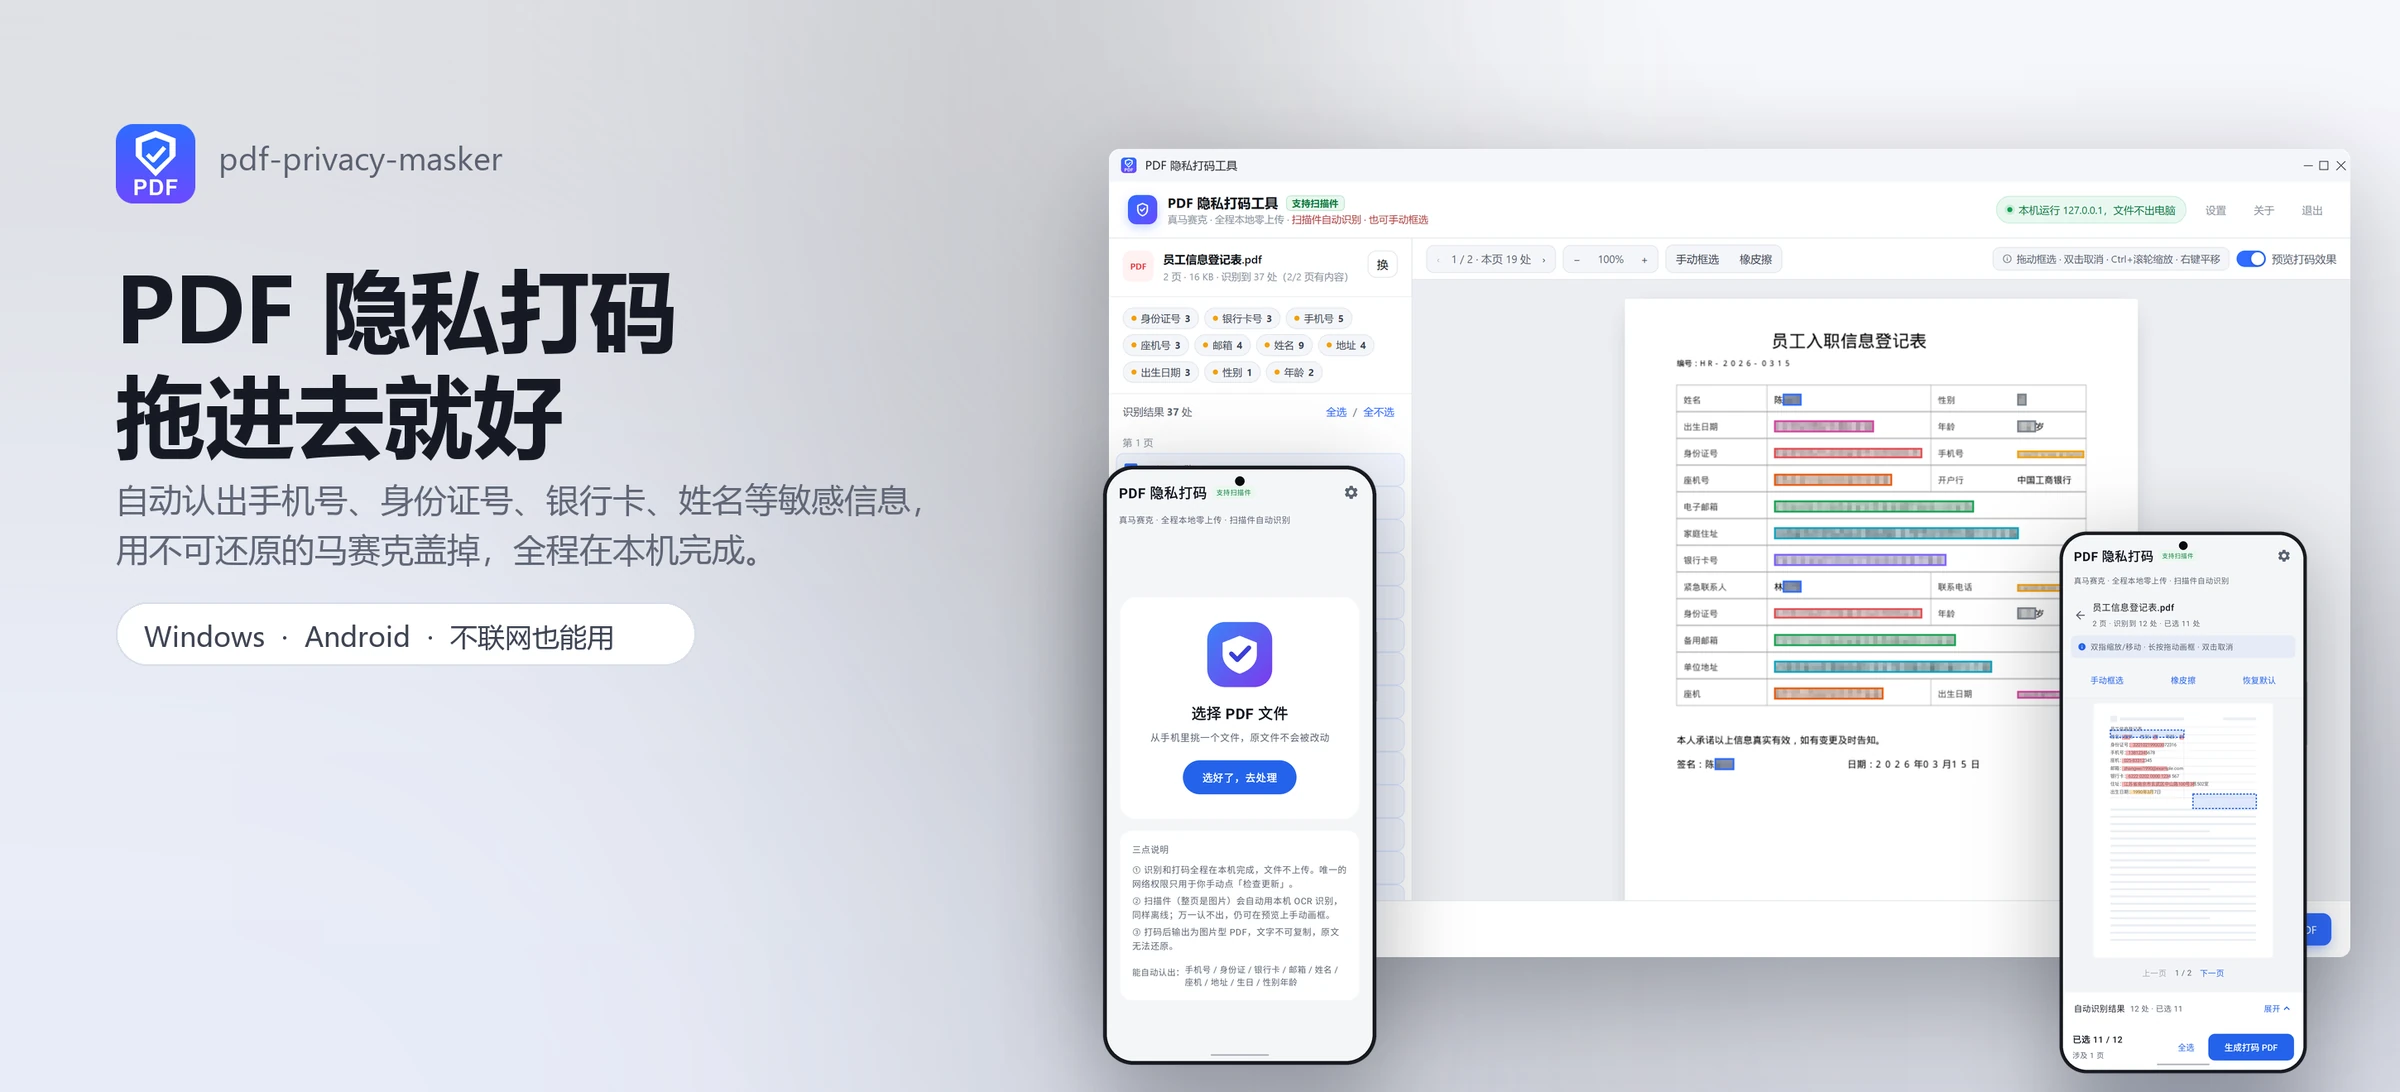
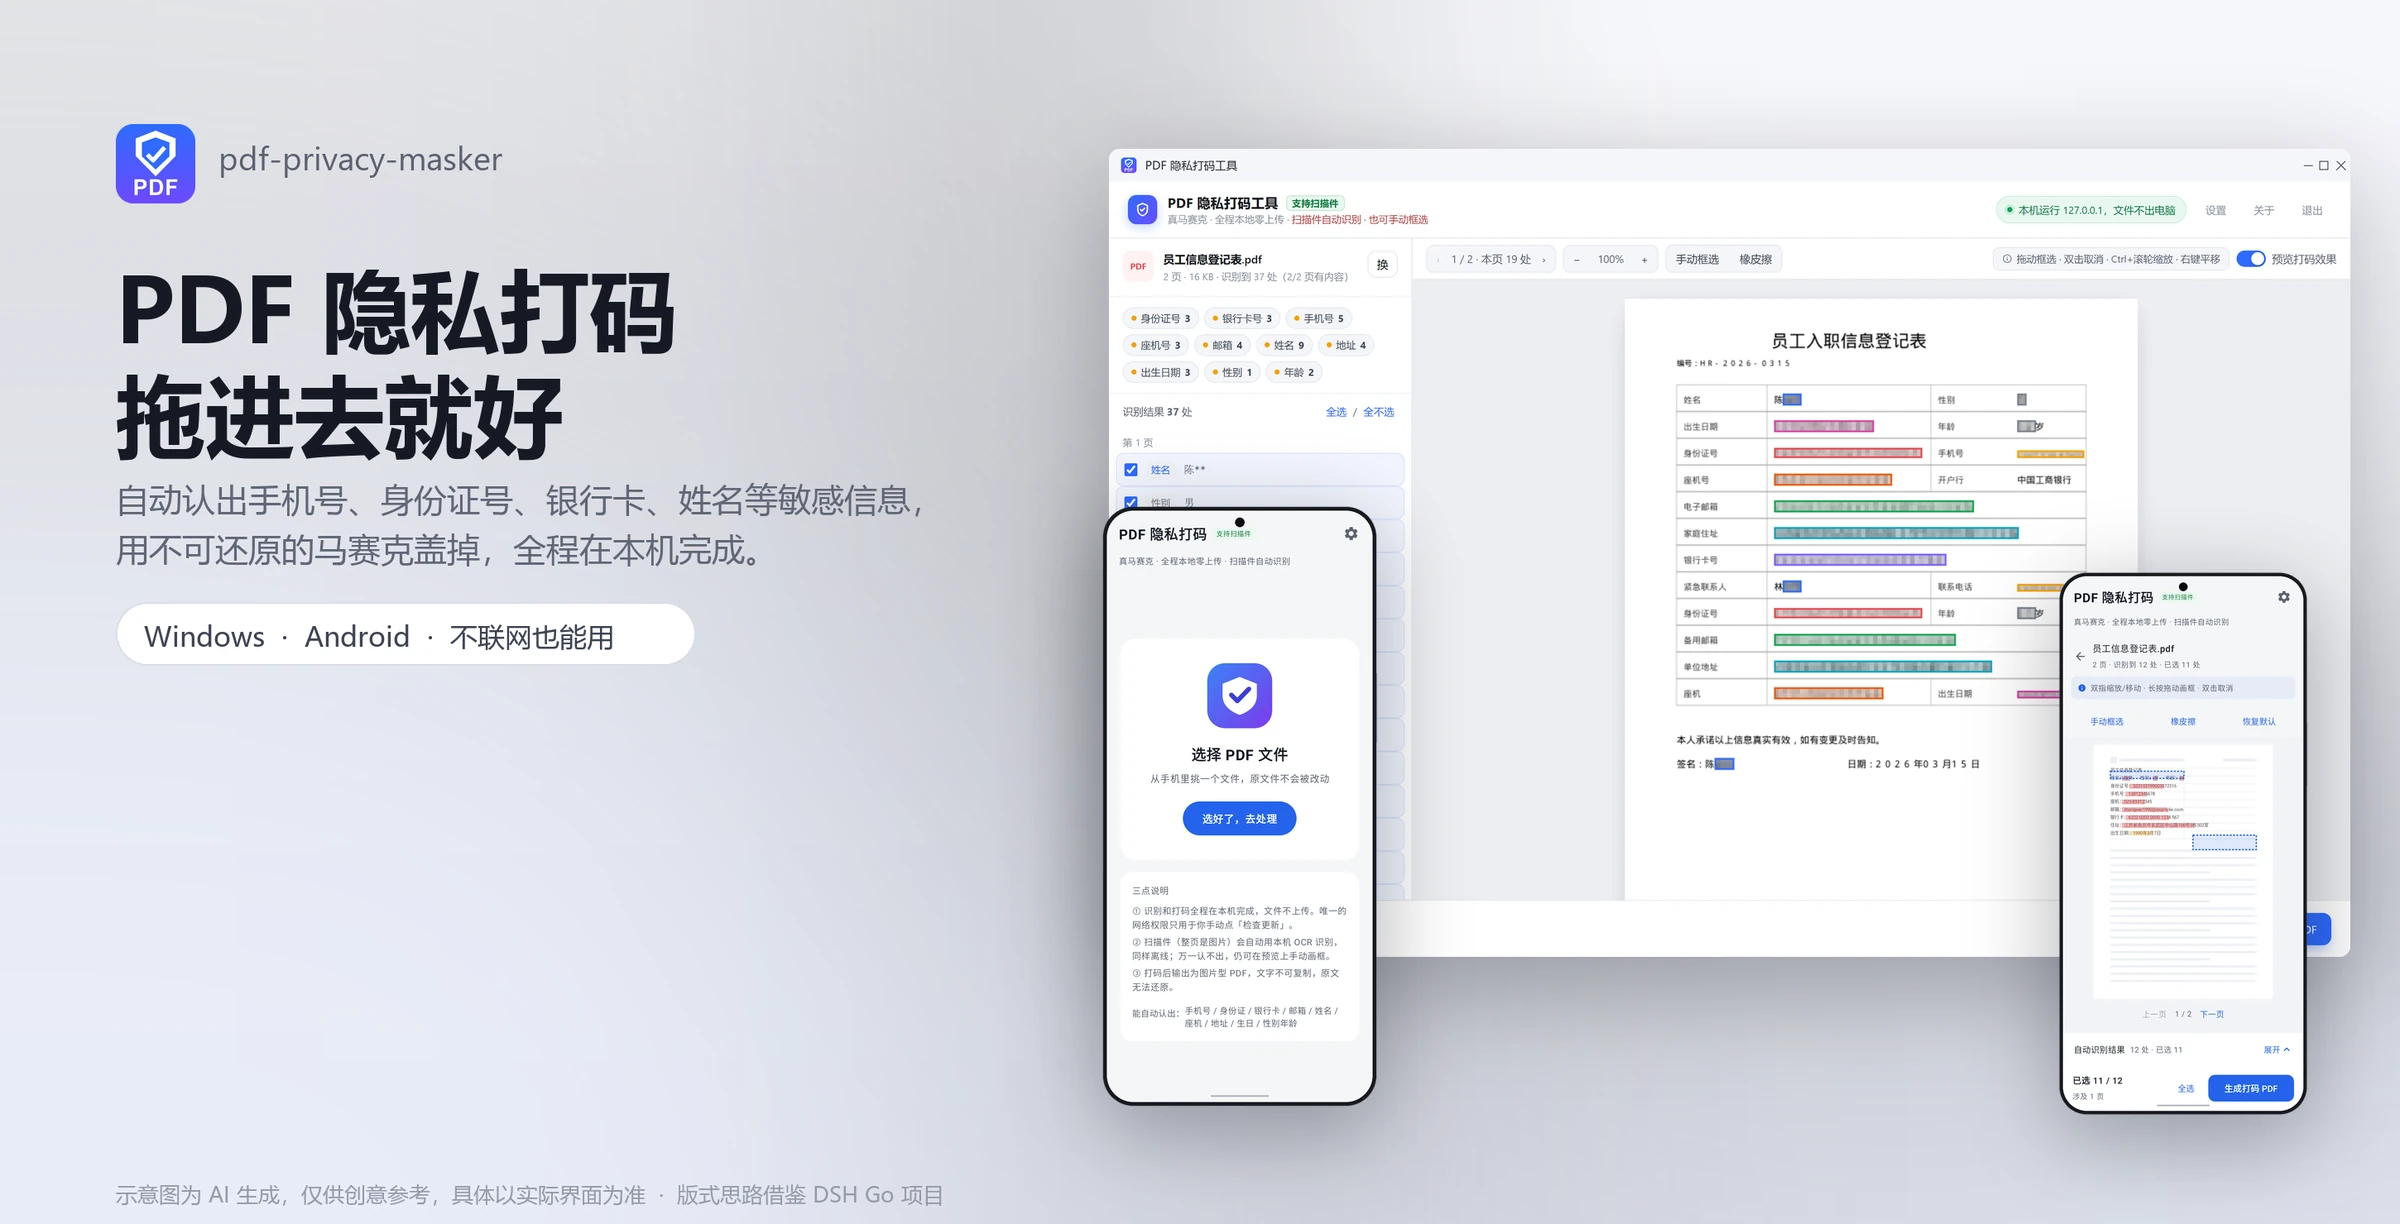
docs(readme): 首图加示意说明小字、赞赏移到署名后、安装须知下移并精简
- Hero 左下角加一行灰色小字：AI 生成示意图、仅供创意参考、版式思路借鉴 DSH Go；
  画布加高留出这条空白，手机/窗口位置同步上移，四种组合（中英 × 明暗）全部重出
- 「赞赏」整段从文末移到「关于署名」之后（英文 Support 同步）
- 原开头「安装之前，请看这三点」移到「已知限制」之后，改名「装之前要知道的三件事」，
  三条各压缩成两三行，去掉大段背景陈述

diff --git a/dev/make_readme_shots.py b/dev/make_readme_shots.py
@@ -72,7 +72,7 @@ THEMES = {
         edge=(214, 218, 228), win_text=(40, 44, 54), win_btn=(72, 78, 92),
         title=(22, 26, 36), sub=(96, 102, 118), brand=(90, 96, 112),
         pill=(255, 255, 255, 210), pill_edge=(214, 220, 232, 255),
-        pill_text=(60, 66, 82),
+        pill_text=(60, 66, 82), fine=(148, 154, 168),
     ),
     "dark": dict(
         bg=(20, 23, 30), bg2=(9, 11, 16),
@@ -82,7 +82,7 @@ THEMES = {
         edge=(58, 63, 76), win_text=(224, 228, 237), win_btn=(196, 202, 216),
         title=(238, 241, 248), sub=(148, 156, 174), brand=(138, 146, 164),
         pill=(30, 34, 44, 220), pill_edge=(58, 64, 80, 255),
-        pill_text=(202, 210, 226),
+        pill_text=(202, 210, 226), fine=(118, 126, 144),
     ),
 }
 TH = THEMES["light"]
@@ -546,20 +546,22 @@ HERO = {
         title=["PDF 隐私打码", "拖进去就好"],
         sub=["自动认出手机号、身份证号、银行卡、姓名等敏感信息，",
              "用不可还原的马赛克盖掉，全程在本机完成。"],
-        pill="Windows  ·  Android  ·  不联网也能用"),
+        pill="Windows  ·  Android  ·  不联网也能用",
+        note="示意图为 AI 生成，仅供创意参考，具体以实际界面为准  ·  版式思路借鉴 DSH Go 项目"),
     "en": dict(
         title=["PDF Privacy", "Masker"],
         sub=["Detects phone numbers, ID numbers, bank cards,",
              "names and more — then covers them all with",
              "irreversible mosaic. Nothing leaves your device."],
-        pill="Windows  ·  Android  ·  Works offline"),
+        pill="Windows  ·  Android  ·  Works offline",
+        note="AI-generated illustration, for reference only — the actual UI may differ  ·  layout inspired by DSH Go"),
 }
 
 
 def hero(lang):
     # 左边留给文字（最宽约 1200），右侧整块放「窗口 + 两台手机」，
-    # 两者之间留出空档，手机不压字。
-    W, H = 2900, 1320
+    # 两者之间留出空档，手机不压字。底部多留一条空白放右下角小字。
+    W, H = 2900, 1480
     cv = canvas((W, H))
     win = frame_window(shot_window_png(lang, "work"), WIN_TITLE[lang])
     win = fit(win, max_w=1500)
@@ -569,9 +571,9 @@ def hero(lang):
 
     ph1 = fit(frame_phone(PHONE_SRC[("home", lang)]), max_h=730)
     ph2 = fit(frame_phone(PHONE_SRC[("work", lang)]), max_h=660)
-    drop_in(cv, ph1, (wx - 10, H - ph1.height - 30),
+    drop_in(cv, ph1, (wx - 10, H - ph1.height - 140),
             radius=int(ph1.width * 0.12), blur=50, alpha=80, offset=(0, 26))
-    drop_in(cv, ph2, (wx + win.width - ph2.width - 50, H - ph2.height - 20),
+    drop_in(cv, ph2, (wx + win.width - ph2.width - 50, H - ph2.height - 130),
             radius=int(ph2.width * 0.12), blur=50, alpha=80, offset=(0, 26))
 
     d = ImageDraw.Draw(cv)
@@ -593,6 +595,11 @@ def hero(lang):
                         fill=TH["pill"], outline=TH["pill_edge"], width=2)
     d.text((140 + 34, y + 32 + 19), HERO[lang]["pill"],
            font=font(33, en=(lang == "en")), fill=TH["pill_text"])
+
+    # 左下角小字：说明这张图是合成示意、不是截图原样，并注明版式借鉴来源。
+    # 放左边与标题块同一起始线，比右下角（被手机占着）更显眼。
+    fn = font(26, en=(lang == "en"))
+    d.text((140, H - 54), HERO[lang]["note"], font=fn, fill=TH["fine"])
     return cv
 
 
